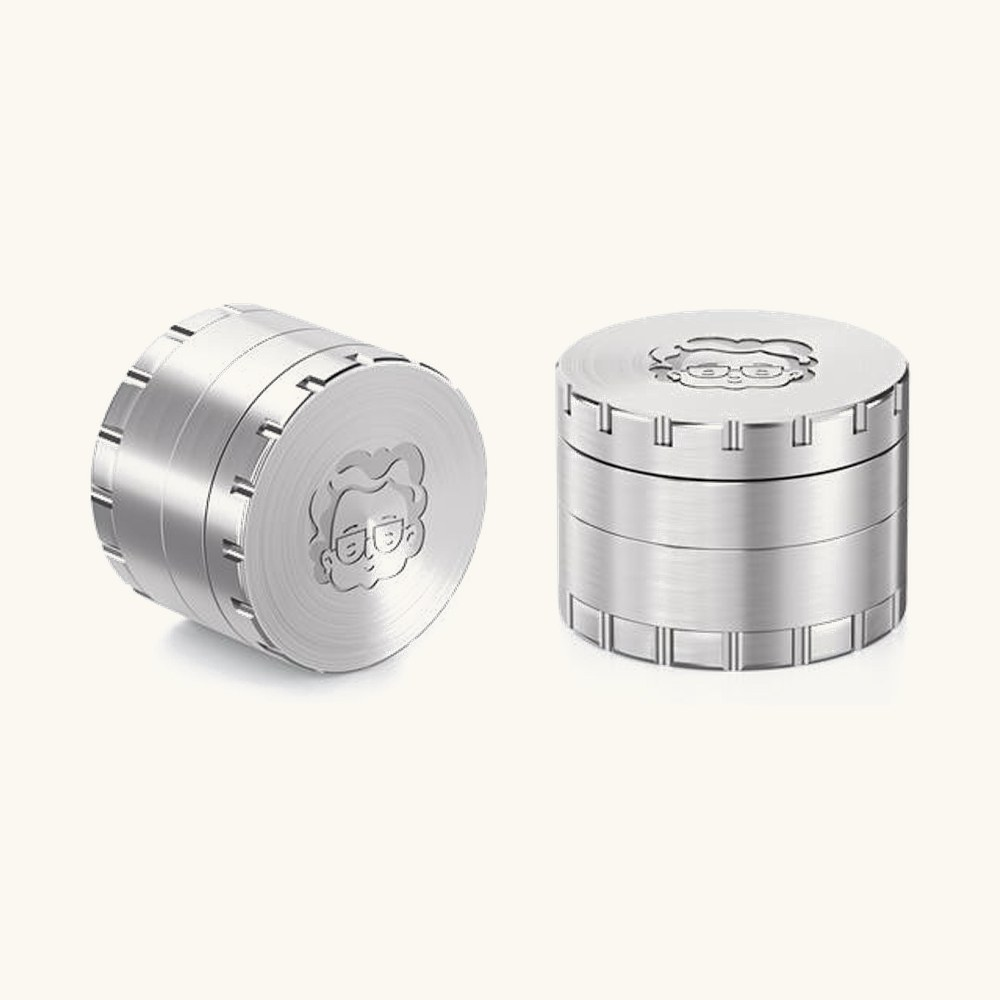
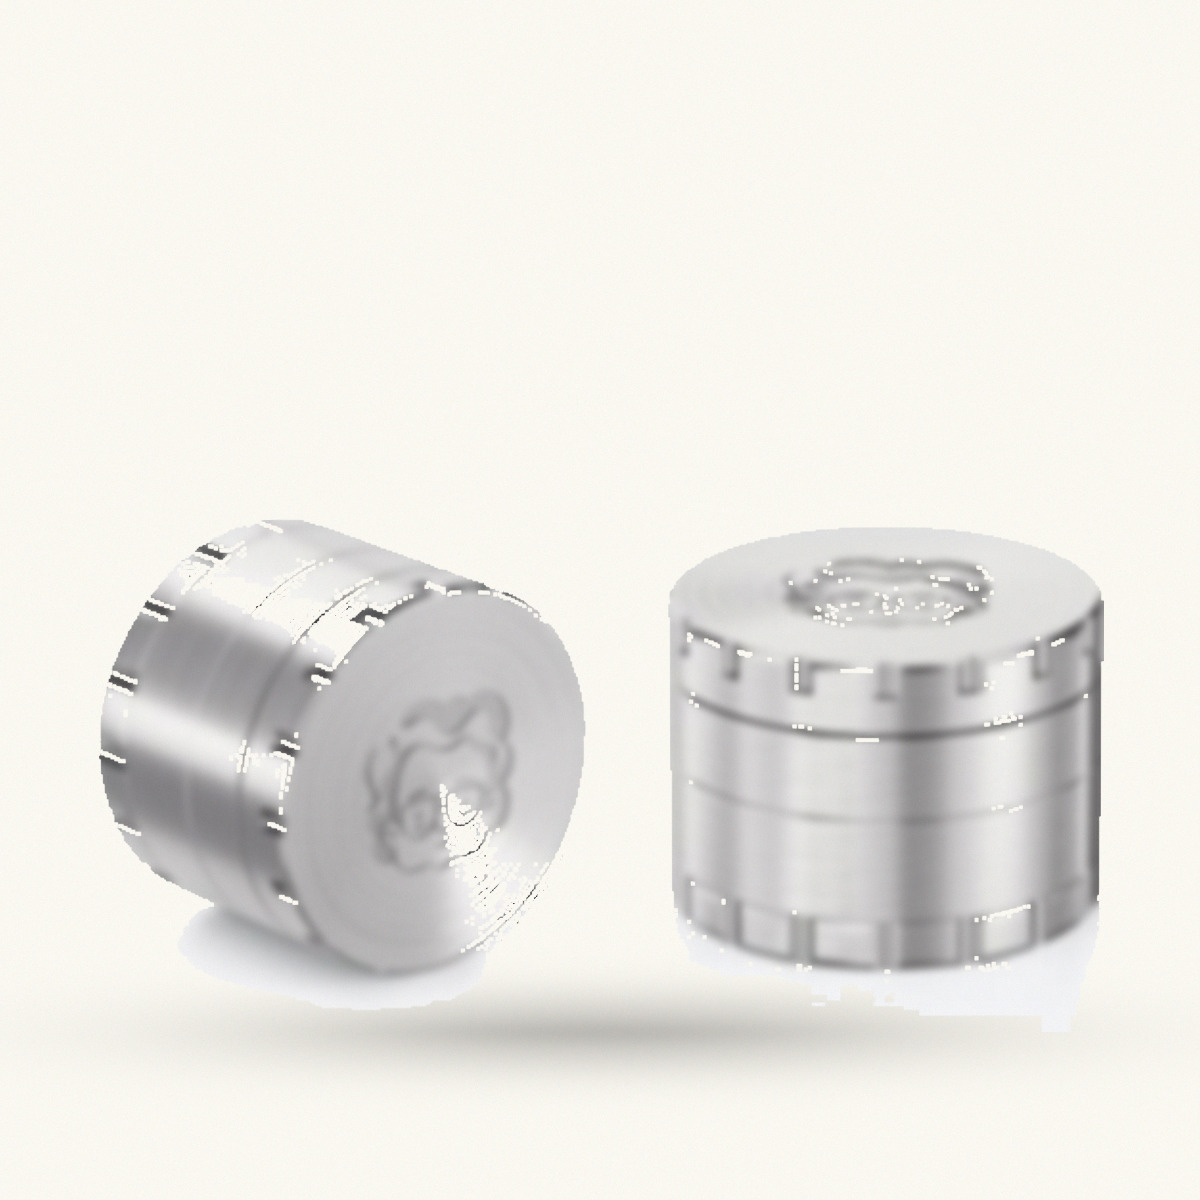
v27: Kategorien-Kacheln 1:1 normiert (#FAF8F1), Doppelschatten entfernt

Changed region(s): [[0.062, 0.31, 0.93, 0.899]]

diff --git a/v27/index.html b/v27/index.html
@@ -74,35 +74,35 @@
   </div>
   <div class="catgrid">
       <a class="cat" href="shop.html">
-        <div class="ph"><img src="img/norm/cat-grinder.jpg" alt="GRINDER" loading="lazy" width="360" height="270"></div>
+        <div class="ph"><img src="img/norm/cat-grinder.jpg" alt="GRINDER" loading="lazy" width="360" height="360"></div>
         <div class="cap"><b>GRINDER</b><span>64 Artikel</span></div>
       </a>
       <a class="cat" href="shop.html">
-        <div class="ph"><img src="img/norm/cat-bong.jpg" alt="BONGS" loading="lazy" width="360" height="270"></div>
+        <div class="ph"><img src="img/norm/cat-bong.jpg" alt="BONGS" loading="lazy" width="360" height="360"></div>
         <div class="cap"><b>BONGS</b><span>48 Artikel</span></div>
       </a>
       <a class="cat" href="shop.html">
-        <div class="ph"><img src="img/norm/cat-blaettchen.jpg" alt="BLÄTTCHEN" loading="lazy" width="360" height="270"></div>
+        <div class="ph"><img src="img/norm/cat-blaettchen.jpg" alt="BLÄTTCHEN" loading="lazy" width="360" height="360"></div>
         <div class="cap"><b>BLÄTTCHEN</b><span>92 Artikel</span></div>
       </a>
       <a class="cat" href="shop.html">
-        <div class="ph"><img src="img/norm/cat-filter-tips.jpg" alt="FILTER &amp; TIPS" loading="lazy" width="360" height="270"></div>
+        <div class="ph"><img src="img/norm/cat-filter-tips.jpg" alt="FILTER &amp; TIPS" loading="lazy" width="360" height="360"></div>
         <div class="cap"><b>FILTER &amp; TIPS</b><span>37 Artikel</span></div>
       </a>
       <a class="cat" href="shop.html">
-        <div class="ph"><img src="img/norm/cat-vaporizer.jpg" alt="VAPORIZER" loading="lazy" width="360" height="270"></div>
+        <div class="ph"><img src="img/norm/cat-vaporizer.jpg" alt="VAPORIZER" loading="lazy" width="360" height="360"></div>
         <div class="cap"><b>VAPORIZER</b><span>21 Artikel</span></div>
       </a>
       <a class="cat" href="shop.html">
-        <div class="ph"><img src="img/norm/cat-stash.jpg" alt="STASH" loading="lazy" width="360" height="270"></div>
+        <div class="ph"><img src="img/norm/cat-stash.jpg" alt="STASH" loading="lazy" width="360" height="360"></div>
         <div class="cap"><b>STASH</b><span>44 Artikel</span></div>
       </a>
       <a class="cat" href="shop.html">
-        <div class="ph"><img src="img/norm/cat-purpfeifen.jpg" alt="PURPFEIFEN" loading="lazy" width="360" height="270"></div>
+        <div class="ph"><img src="img/norm/cat-purpfeifen.jpg" alt="PURPFEIFEN" loading="lazy" width="360" height="360"></div>
         <div class="cap"><b>PURPFEIFEN</b><span>18 Artikel</span></div>
       </a>
       <a class="cat" href="shop.html">
-        <div class="ph"><img src="img/norm/cat-drehzubehoer.jpg" alt="DREHZUBEHÖR" loading="lazy" width="360" height="270"></div>
+        <div class="ph"><img src="img/norm/cat-drehzubehoer.jpg" alt="DREHZUBEHÖR" loading="lazy" width="360" height="360"></div>
         <div class="cap"><b>DREHZUBEHÖR</b><span>56 Artikel</span></div>
       </a>
   </div>

diff --git a/v27/style.css b/v27/style.css
@@ -111,8 +111,8 @@ nav.main a.deals{color:var(--accent)}
 .catgrid{display:grid;grid-template-columns:repeat(4,1fr);gap:18px}
 .cat{display:block;border-radius:20px;overflow:hidden;background:var(--paper);border:1px solid var(--line);transition:transform .25s ease,box-shadow .25s ease}
 .cat:hover{transform:translateY(-4px);box-shadow:var(--shadow)}
-.cat .ph{aspect-ratio:4/3;overflow:hidden;background:var(--paper);display:flex;align-items:center;justify-content:center;padding:0}
-.cat .ph img{width:100%;height:100%;object-fit:contain;filter:drop-shadow(0 12px 20px rgba(10,15,11,.1));transition:transform .4s ease}
+.cat .ph{aspect-ratio:1/1;overflow:hidden;background:var(--paper);display:flex;align-items:center;justify-content:center;padding:0}
+.cat .ph img{width:100%;height:100%;object-fit:contain;transition:transform .4s ease}
 .cat:hover .ph img{transform:scale(1.05)}
 .cat .cap{display:flex;align-items:center;justify-content:space-between;padding:13px 16px;border-top:1px solid var(--line-soft)}
 .cat .cap b{font-family:Anton,sans-serif;text-transform:uppercase;font-weight:400;font-size:17px;letter-spacing:.01em}
@@ -133,7 +133,7 @@ nav.main a.deals{color:var(--accent)}
 .deal .timer span{font-size:9.5px;letter-spacing:.16em;text-transform:uppercase;opacity:.6}
 .deal .ph{padding:44px;display:flex;align-items:center;justify-content:center}
 .deal .dealtile{background:var(--paper);border-radius:22px;padding:18px;box-shadow:0 30px 60px -30px rgba(0,0,0,.6)}
-.deal .ph img{width:100%;max-width:380px;object-fit:contain;filter:drop-shadow(0 16px 26px rgba(10,15,11,.16))}
+.deal .ph img{width:100%;max-width:380px;object-fit:contain}
 
 /* ---------- Produktkarten ---------- */
 .pgrid{display:grid;grid-template-columns:repeat(4,1fr);gap:22px}
@@ -141,7 +141,7 @@ nav.main a.deals{color:var(--accent)}
 .card .ph{position:relative;aspect-ratio:1/1;border-radius:18px;background:var(--paper);border:1px solid var(--line);
   display:flex;align-items:center;justify-content:center;padding:0;overflow:hidden;transition:box-shadow .25s ease,transform .25s ease}
 .card:hover .ph{box-shadow:var(--shadow);transform:translateY(-3px)}
-.card .ph img{width:100%;height:100%;object-fit:contain;filter:drop-shadow(0 14px 22px rgba(10,15,11,.12));transition:transform .45s cubic-bezier(.2,.7,.3,1)}
+.card .ph img{width:100%;height:100%;object-fit:contain;transition:transform .45s cubic-bezier(.2,.7,.3,1)}
 .card:hover .ph img{transform:scale(1.06)}
 .badge{position:absolute;left:12px;top:12px;background:var(--accent);color:#fff;font-size:10px;font-weight:700;letter-spacing:.12em;
   text-transform:uppercase;padding:5px 9px;border-radius:999px;z-index:2}
